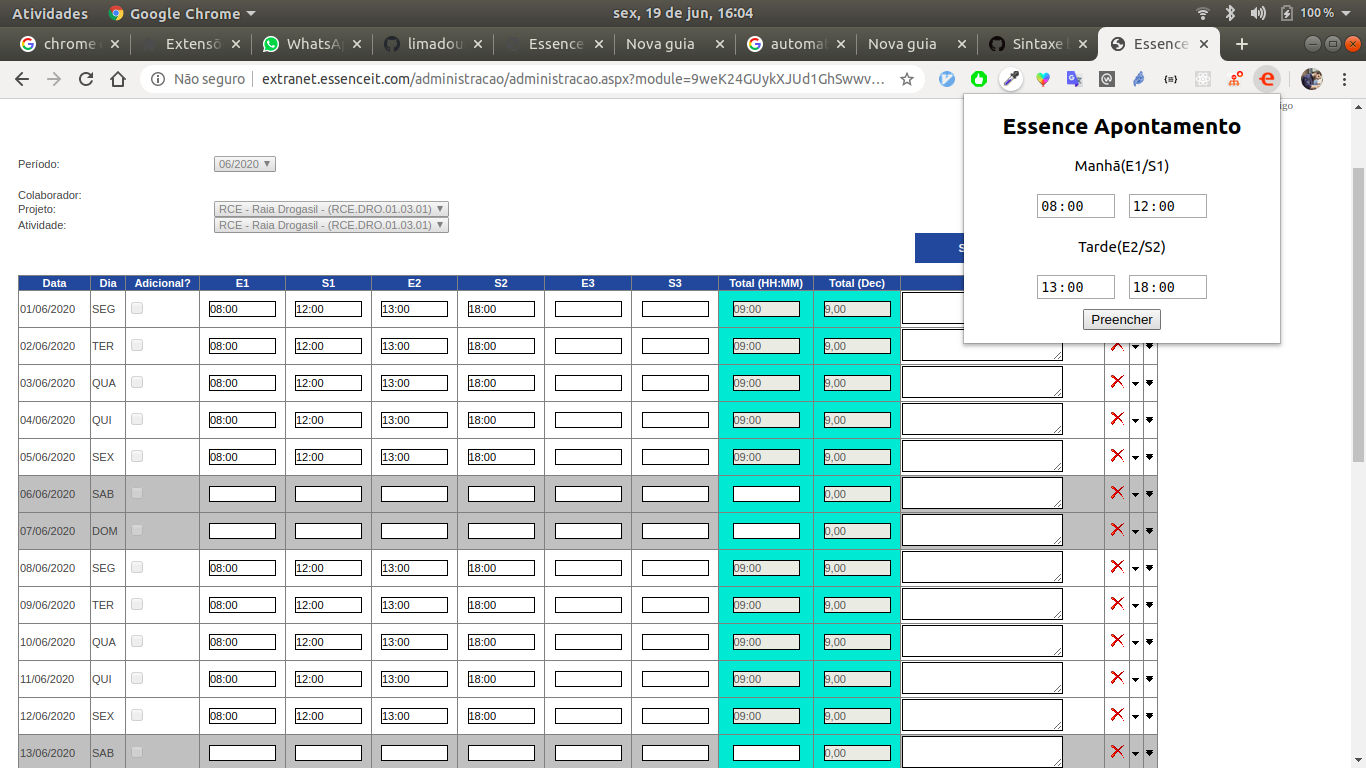
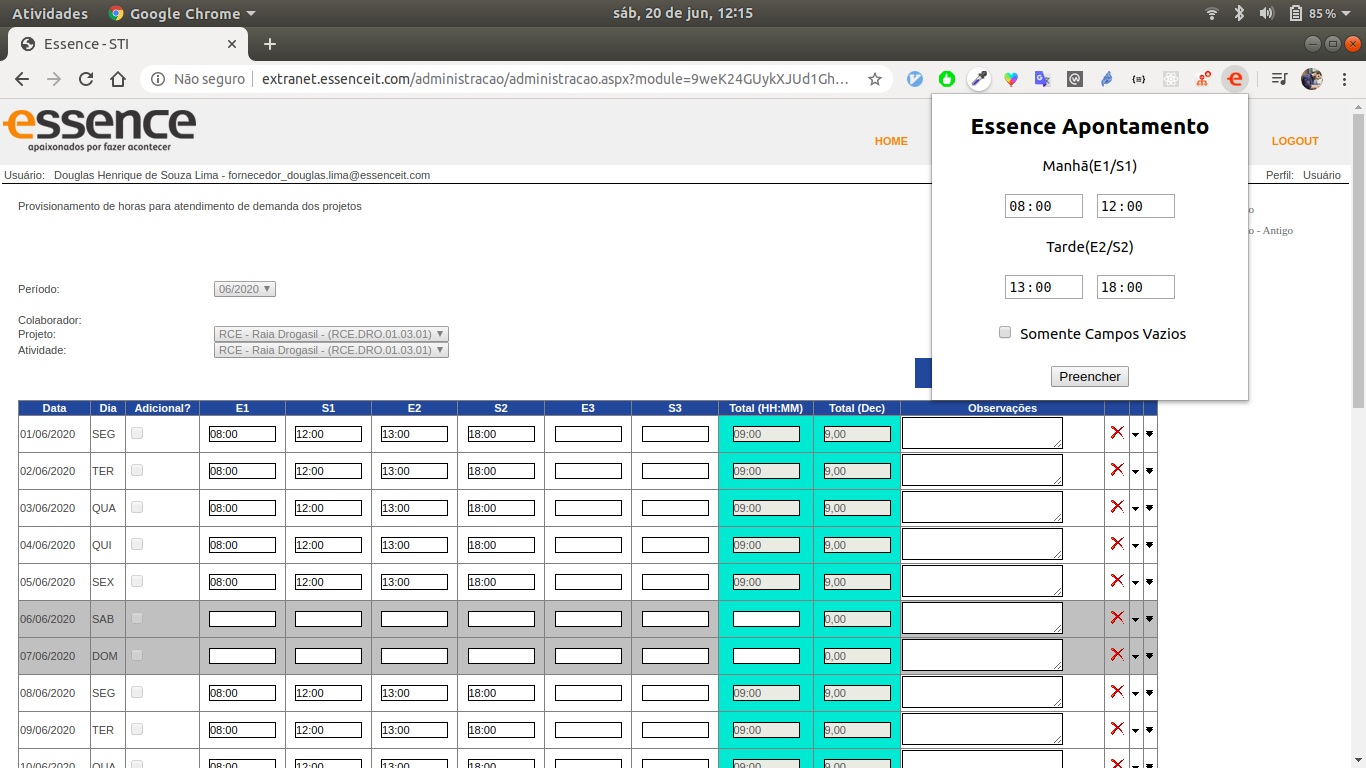
new attribute onlyEmpty

diff --git a/popup.js b/popup.js
@@ -1,35 +1,41 @@
-var entryHour1 = document.getElementById('entryHour1')
-var exitHour1 = document.getElementById('exitHour1')
-var entryHour2 = document.getElementById('entryHour2')
-var exitHour2 = document.getElementById('exitHour2')
+var entryHour1 = document.getElementById('entryHour1');
+var exitHour1 = document.getElementById('exitHour1');
+var entryHour2 = document.getElementById('entryHour2');
+var exitHour2 = document.getElementById('exitHour2');
+
+var hoursSubmit = document.getElementById('hoursSubmit');
+var onlyEmpty =document.getElementById("onlyEmpty");
 
 function displayHours() {
-  chrome.storage.local.get(['hours'], function(object) {
+  chrome.storage.local.get(['hours', 'isOnlyEmpty'], function(object) {
     if(!!object.hours) {
       entryHour1.value = object.hours.entryHour1;
       exitHour1.value = object.hours.exitHour1;
       entryHour2.value = object.hours.entryHour2;
       exitHour2.value = object.hours.exitHour2;
+      onlyEmpty.checked = object.isOnlyEmpty;
     }
   });
 }
 
 displayHours();
 
-document.getElementById('hoursSubmit').onclick = function() {
+hoursSubmit.onclick = function(event) {
   let hours = {
     entryHour1: entryHour1.value, 
     exitHour1: exitHour1.value, 
     entryHour2: entryHour2.value, 
     exitHour2: exitHour2.value
   };
+
+  let isOnlyEmpty = onlyEmpty.checked;
   
-  chrome.storage.local.set({hours}, function(){
+  chrome.storage.local.set({hours, isOnlyEmpty}, function(){
     chrome.tabs.executeScript(null, {
       file: 'content_script.js'
     });
     chrome.tabs.query({active: true, currentWindow: true}, function(tabs) {
-      chrome.tabs.sendMessage(tabs[0].id, {updateHours:true, hours}, function(response) {
+      chrome.tabs.sendMessage(tabs[0].id, {updateHours:true, hours, isOnlyEmpty }, function(response) {
         console.log(response);
       });
     });

diff --git a/content_script.js b/content_script.js
@@ -2,7 +2,7 @@
 chrome.runtime.onMessage.addListener(
   function(request, sender, sendResponse) {
     if (request.updateHours){
-      updateHour(request.hours);
+      updateHour(request.hours, request.isOnlyEmpty);
       sendResponse({success: true});
     }
 
@@ -11,26 +11,29 @@ chrome.runtime.onMessage.addListener(
 );
 
 
-function updateHour(hours){
+function updateHour(hours, isOnlyEmpty){
   document.querySelectorAll('.hora').forEach(function(hour){
+
     if(hour.parentNode.style.backgroundColor !== 'rgb(192, 192, 192)'){
       const nameHourSplit = hour.getAttribute('id').split('_');
       const typeHour = nameHourSplit[nameHourSplit.length-1]
       
-      switch(typeHour){
-        case 'txtEntrada1': 
-          hour.value = hours.entryHour1;
-          break;
-        case 'txtSaida1': 
-          hour.value = hours.exitHour1;
-          break;
-        case 'txtEntrada2': 
-          hour.value = hours.entryHour2;
-          break;
-        case 'txtSaida2': 
-          hour.value = hours.exitHour2;
-          break;
-        default: break;
+      if(!isOnlyEmpty || !hour.value.trim()){
+        switch(typeHour){
+          case 'txtEntrada1': 
+            hour.value = hours.entryHour1;
+            break;
+          case 'txtSaida1': 
+            hour.value = hours.exitHour1;
+            break;
+          case 'txtEntrada2': 
+            hour.value = hours.entryHour2;
+            break;
+          case 'txtSaida2': 
+            hour.value = hours.exitHour2;
+            break;
+          default: break;
+        }
       }
     }
   });

diff --git a/popup.html b/popup.html
@@ -27,7 +27,13 @@
       <input type="time" value="13:00" name="entryHour2" id="entryHour2">
       <input type="time" value="18:00" name="exitHour2" id="exitHour2">
       <br>
-      <input type='submit' value='Preencher' id='hoursSubmit'>
+      <br>
+      <div>
+        <input type="checkbox" id="onlyEmpty" name="onlyEmpty">
+        <label for="scales">Somente Campos Vazios</label>
+      </div>
+      <br>
+      <input type='button' value='Preencher' id='hoursSubmit'>
     </form>
   </body>
   <script src="popup.js"></script>
